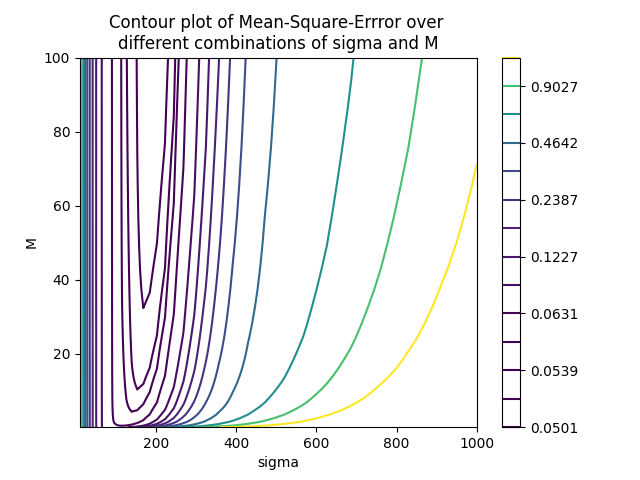
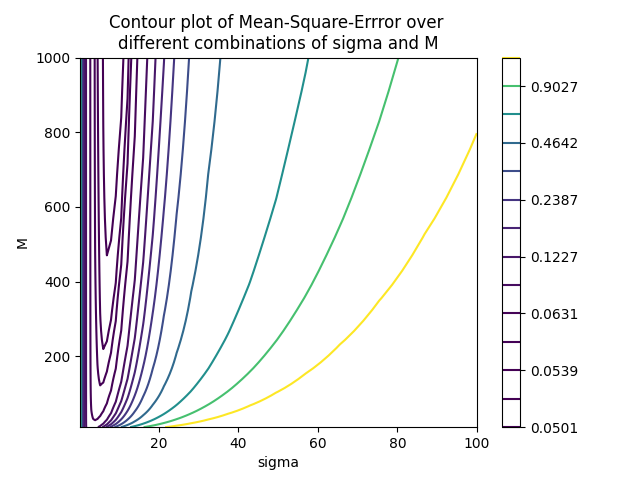
sdf

diff --git a/07_linear_models/Steinarr7.py b/07_linear_models/Steinarr7.py
@@ -173,7 +173,7 @@ if __name__ == "__main__":
     print(results)
 
     fig, ax = plt.subplots()
-    X, Y = np.meshgrid(Ms, sigmas)
+    X, Y = np.meshgrid(sigmas, Ms)
     # c = ax.pcolormesh(Ms, sigmas, results, cmap='RdBu',
     #                   vmin=0.04, vmax=0.07, shading="nearest")
     cp = ax.contour(X, Y, results, np.hstack((np.logspace(-1.3, -1, 20)[:4], np.logspace(-1.2, 0.1, 10))))
